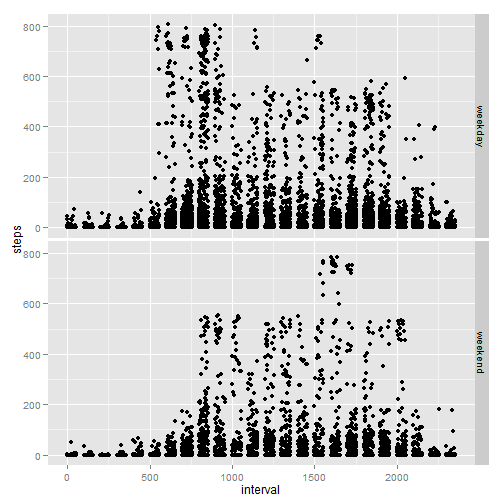
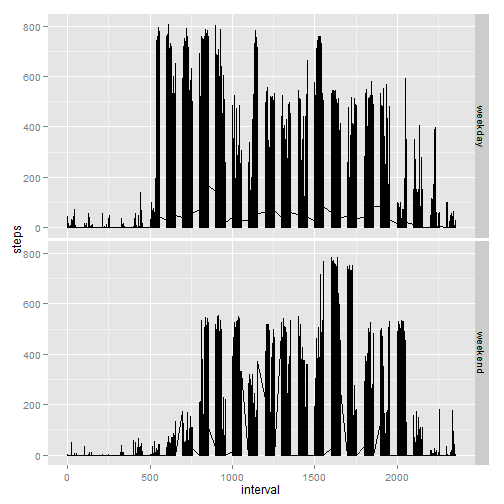
Corrected panel graph.

Changed region(s): [[0.119, 0.0595, 0.9226, 0.4762], [0.119, 0.506, 0.9226, 0.9226]]

diff --git a/PA1_template.html b/PA1_template.html
@@ -382,10 +382,11 @@ dt2 &lt;- cbind( dt2, dayofweek = as.factor(v) )
 
 <h3>Question E.2</h3>
 
-<pre><code class="r">qplot( interval, steps, data=dt2, facets=dayofweek~. )
+<pre><code class="r">g &lt;- ggplot(data=dt2, aes(x=interval, y=steps)) + geom_line()
+g+facet_grid( dayofweek~.)
 </code></pre>
 
[2 lines of base64/hex data omitted]
 
 </body>
 

diff --git a/PA1_template.md b/PA1_template.md
@@ -207,7 +207,8 @@ dt2 <- cbind( dt2, dayofweek = as.factor(v) )
 
 
 ```r
-qplot( interval, steps, data=dt2, facets=dayofweek~. )
+g <- ggplot(data=dt2, aes(x=interval, y=steps)) + geom_line()
+g+facet_grid( dayofweek~.)
 ```
 
 ![plot of chunk steps_dayofweek_simulated](figure/steps_dayofweek_simulated.png) 
